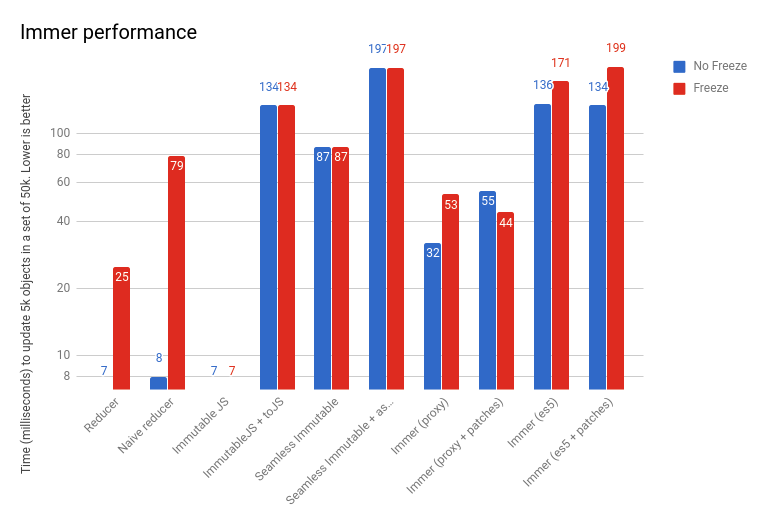
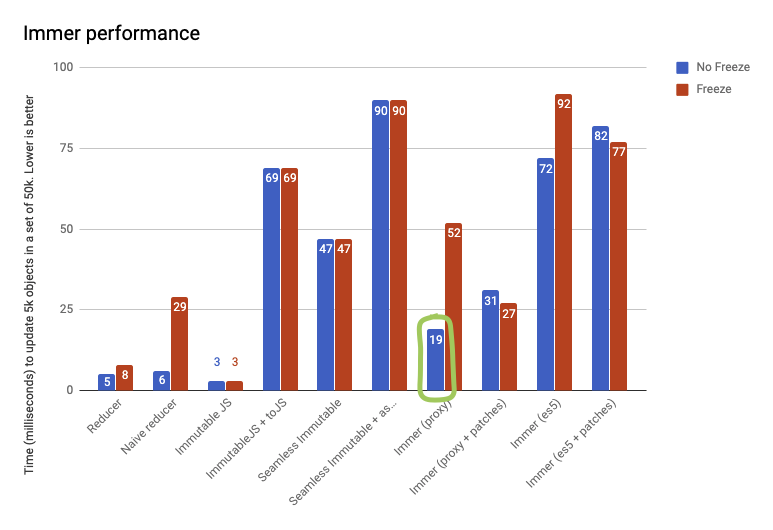
Updated docs. Also fixes #445

diff --git a/__tests__/frozen.js b/__tests__/frozen.js
@@ -149,6 +149,9 @@ function runTests(name, useProxies) {
 			expect(() => res.delete("b")).toThrow(
 				"This object has been frozen and should not be mutated"
 			)
+
+			// In draft, still editable
+			expect(produce(res, d => void d.set("a", 2))).not.toBe(res)
 		})
 
 		it("will freeze sets", () => {
@@ -165,6 +168,9 @@ function runTests(name, useProxies) {
 			expect(() => base.clear()).toThrow(
 				"This object has been frozen and should not be mutated"
 			)
+
+			// In draft, still editable
+			expect(produce(res, d => void d.add(2))).not.toBe(res)
 		})
 	})
 }

diff --git a/docs/complex-objects.md b/docs/complex-objects.md
@@ -5,7 +5,7 @@ title: Working with classes
 
 <div id="codefund"><!-- fallback content --></div>
 
-Plain objects and arrays are always drafted by Immer.
+Plain objects, arrays, `Map`s and `Set`s are always drafted by Immer.
 
 Every other object must use the `immerable` symbol to mark itself as compatible with Immer. When one of these objects is mutated within a producer, its prototype is preserved between copies.
 
@@ -27,36 +27,4 @@ For arrays, only numeric properties and the `length` property can be mutated. Cu
 
 When working with `Date` objects, you should always create a new `Date` instance instead of mutating an existing `Date` object.
 
-Built-in classes like `Map` and `Set` are not yet supported (they might be if there is popular demand). As a workaround, you should clone them before mutating them in a producer:
-
-```js
-const state = {
-	set: new Set(),
-	map: new Map()
-}
-const nextState = produce(state, draft => {
-	// Don't use any Set methods, as that mutates the instance!
-	draft.set.add("foo") // ❌
-
-	// 1. Instead, clone the set (just once)
-	const newSet = new Set(draft.set) // ✅
-
-	// 2. Mutate the clone (just in this producer)
-	newSet.add("foo")
-
-	// 3. Update the draft with the new set
-	draft.set = newSet
-
-	// Similarly, don't use any Map methods.
-	draft.map.set("foo", "bar") // ❌
-
-	// 1. Instead, clone the map (just once)
-	const newMap = new Map(draft.map) // ✅
-
-	// 2. Mutate it
-	newMap.set("foo", "bar")
-
-	// 3. Update the draft
-	draft.map = newMap
-})
-```
+Maps and Sets that are produced by Immer will be made artificially immutable. This means that they will throw an exception when trying mutative methods like `set`, `clear` etc. outside a producer.

diff --git a/docs/api.md b/docs/api.md
@@ -20,6 +20,7 @@ title: API overview
 | `original` | Given a draft object (doesn't have to be a tree root), returns the the original object at the same path in the original state tree, if present | [Original](original.md) |
 | `Patch` | Exposed TypeScript type, describes the shape of an (inverse) patch object | [Patches](patches.md) |
 | `produce` | The core API of Immer, also exposed as the `default` export | [Produce](produce.md) |
+| `produceWithPatches` | Works the same as `produce`, but instead of just returning the produced object, it returns a tuple, consisting of `[result, patches, inversePatches]`. | [Patches](patches.md) |
 | `setAutoFreeze` | Enables / disables automatic freezing of the trees produces. By default enabled in development builds | [Freezing](freezing.md) |
 | `setUseProxies` | Can be used to disable or force the use of `Proxy` objects. Useful when filing bug reports. |  |
 

diff --git a/docs/performance.md b/docs/performance.md
@@ -27,7 +27,7 @@ Here is a [simple benchmark](https://github.com/immerjs/immer/blob/master/__perf
 
 Something that isn't reflected in the numbers above, but in reality, Immer is sometimes significantly _faster_ than a hand written reducer. The reason for that is that Immer will detect "no-op" state changes, and return the original state if nothing actually changed, which can avoid a lot of re-renderings for example. Cases are known where simply applying immer solved critical performance issues.
 
-These tests were executed on Node 10.15.1. Use `yarn test:perf` to reproduce them locally.
+These tests were executed on Node 10.16.3. Use `yarn test:perf` to reproduce them locally.
 
 ![performance.png](/immer/img/performance.png)
 

diff --git a/docs/faq.md b/docs/faq.md
@@ -20,13 +20,17 @@ A: Yes
 
 ## Q: I can't rely on Proxies being present on my target environments. Can I use Immer?
 
-A: Yes
+A: Yes [details](http://localhost:3000/immer/docs/installation#immer-on-older-javascript-environments)
 
 ## Q: Can I typecheck my data structures when using Immer?
 
 A: Yes
 
 ## Q: Can I store `Date` objects, functions etc in my state tree when using Immer?
+
+A: Yes
+
+## Q: Can I use Maps and Sets?
 
 A: Yes
 

diff --git a/docs/introduction.md b/docs/introduction.md
@@ -54,7 +54,7 @@ Head to the [next section](produce) to further dive into `produce`.
 
 ## Benefits
 
-- Immutability with normal JavaScript objects and arrays. No new APIs to learn!
+- Immutability with normal JavaScript objects, arrays, Sets and Maps. No new APIs to learn!
 - Strongly typed, no string based paths selectors etc.
 - Structural sharing out of the box
 - Object freezing out of the box
